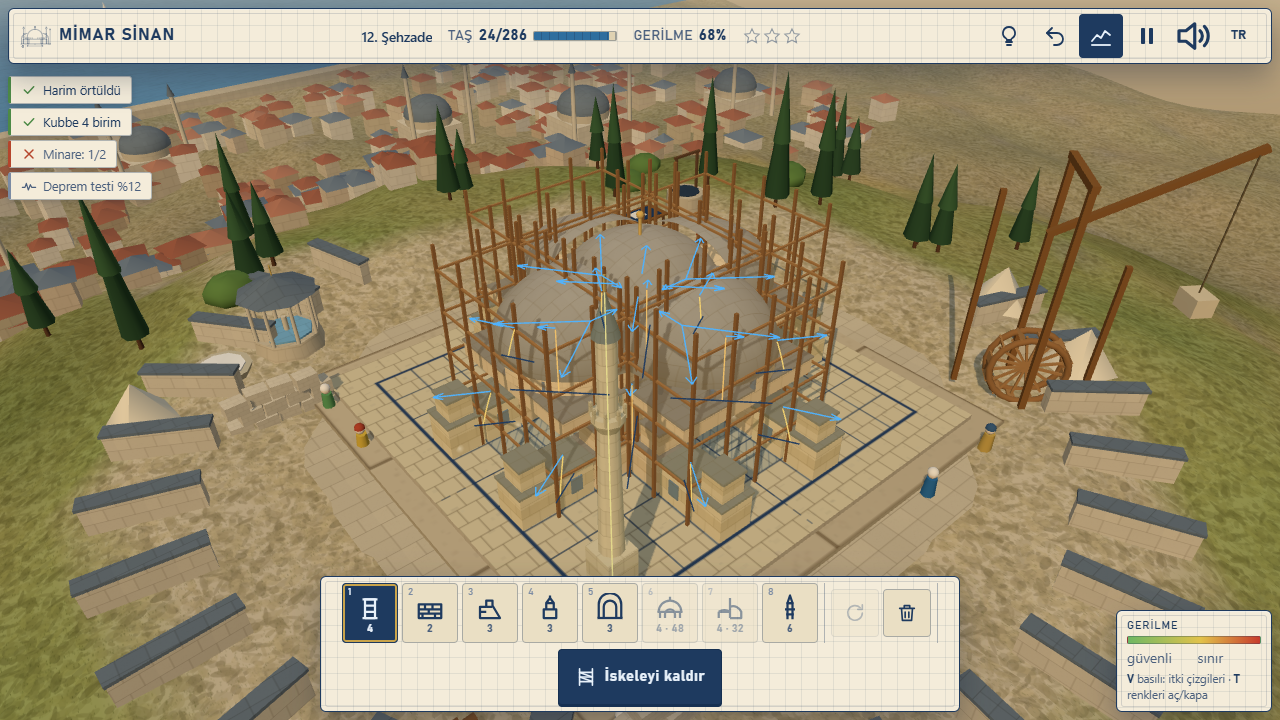
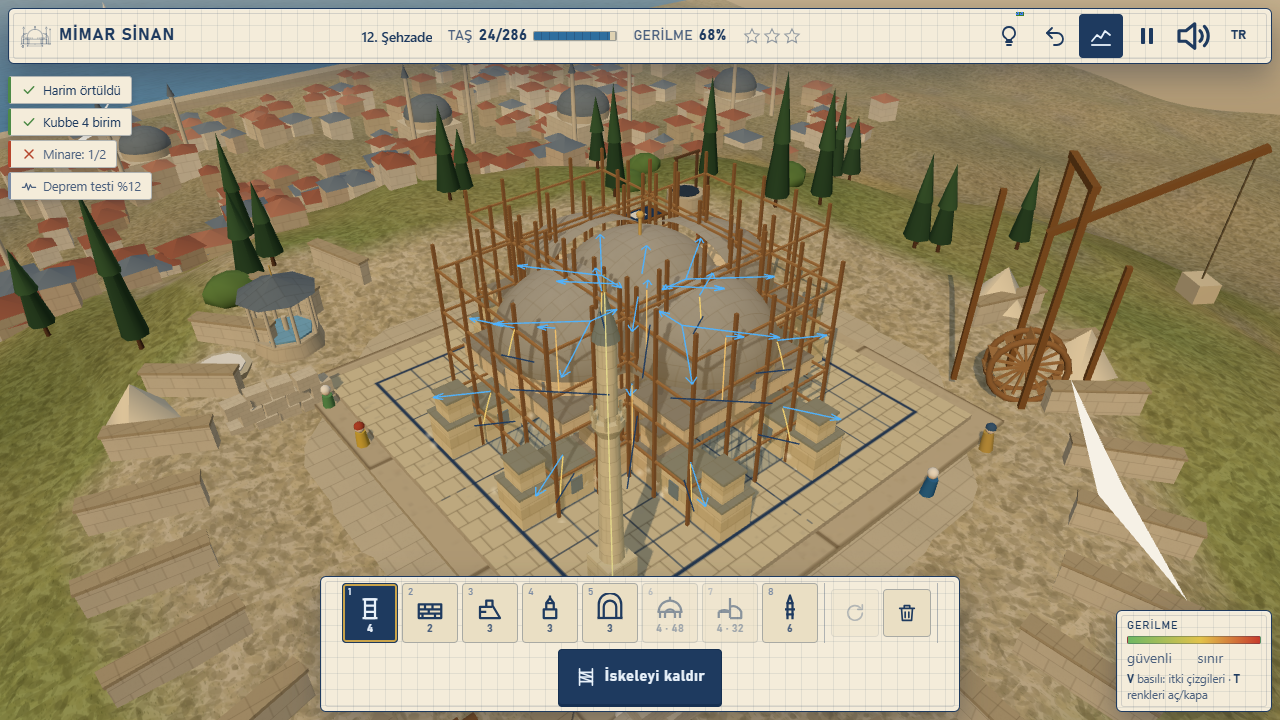
fix: compact landscape tool panel, toasts below objectives, warm forecourt wall
Claude-Session: https://claude.ai/code/session_014vMYwwQ3htV8WjCni8q7av

diff --git a/index.html b/index.html
@@ -74,14 +74,15 @@ i[data-icon] svg{width:100%;height:100%}
   .mbar{width:52px}
 }
 
-/* requirement chips under the bar */
-.reqs{position:fixed;left:8px;top:calc(76px + var(--sa-t));z-index:17;display:flex;flex-direction:column;gap:4px;max-width:46vw}
+/* requirement chips under the bar, toasts beside them (desktop: centred; phone portrait: below the chips) */
+.notes{position:fixed;left:8px;right:8px;top:calc(76px + var(--sa-t));z-index:25;pointer-events:none}
+.reqs{display:flex;flex-direction:column;gap:4px;max-width:46vw;width:max-content}
 .req{display:inline-flex;align-items:center;gap:6px;font-size:12.5px;padding:5px 10px;border-radius:3px;background:var(--paper);border:1px solid var(--line);
   border-left:3px solid var(--ink3);color:var(--ink2);width:max-content;max-width:100%;box-shadow:0 2px 6px rgba(20,32,52,.2)}
 .req i[data-icon]{width:16px;height:16px;flex:none}
 .req.ok{color:var(--ink);border-left-color:var(--green)} .req.ok i{color:var(--green)}
 .req.bad{border-left-color:var(--red)} .req.bad i{color:var(--red)}
-@media (max-width:760px){.reqs{top:calc(118px + var(--sa-t))}.req{font-size:11.5px;padding:4px 8px}}
+@media (max-width:760px){.notes{top:calc(118px + var(--sa-t))}.req{font-size:11.5px;padding:4px 8px}}
 
 /* stress legend: a small scale like a drawing's legend block */
 .legend{position:fixed;right:8px;bottom:calc(8px + var(--sa-b));z-index:17;padding:8px 10px;font-size:11.5px;color:var(--ink2);width:156px;pointer-events:none}
@@ -118,11 +119,28 @@ i[data-icon] svg{width:100%;height:100%}
 .test:disabled{opacity:.5;cursor:default}
 .test i[data-icon]{width:22px;height:22px}
 @media (max-width:760px){.tbtn{min-width:48px;height:54px}.tbtn i[data-icon]{width:26px;height:26px}.cbtn{width:44px;height:44px}.test{min-height:50px;padding:0 12px;font-size:14px}.test span{display:none}.tray{gap:4px;padding:5px 6px}}
+/* phone landscape: one compact row (pieces, rotate/erase, test), no legend, so the tray stays under a quarter of the height */
+@media (max-height:500px){
+  .legend{display:none}
+  .tray{flex-wrap:nowrap;gap:4px;padding:4px 6px;bottom:calc(4px + var(--sa-b));max-width:calc(100vw - 12px)}
+  .tray .grp{flex-wrap:nowrap;gap:3px}
+  .tbtn{min-width:42px;height:42px;padding:1px 3px}
+  .tbtn i[data-icon]{width:20px;height:20px}
+  .tbtn small{font-size:8.5px;top:1px;left:3px}
+  .tbtn em{font-size:9.5px}
+  .cbtn{width:38px;height:38px}
+  .cbtn i[data-icon]{width:18px;height:18px}
+  .test{min-height:42px;padding:0 10px;font-size:13px;gap:6px}
+  .test i[data-icon]{width:18px;height:18px}
+  .test span{display:none}
+}
+@media (max-height:500px) and (min-width:820px){.test span{display:inline}}
 
 /* toasts */
-.toasts{position:fixed;top:calc(76px + var(--sa-t));left:50%;transform:translateX(-50%);display:flex;flex-direction:column;gap:6px;
-  align-items:center;z-index:25;pointer-events:none;width:max-content;max-width:92vw}
-@media (max-width:760px){.toasts{top:calc(120px + var(--sa-t))}}
+.toasts{position:absolute;top:0;left:50%;transform:translateX(-50%);display:flex;flex-direction:column;gap:6px;
+  align-items:center;width:max-content;max-width:92vw}
+@media (max-width:760px){.toasts{position:static;transform:none;margin:8px auto 0;max-width:100%}}
+@media (max-height:500px){.toasts{position:absolute;left:auto;right:0;top:0;transform:none;margin:0;align-items:flex-end;max-width:50vw}}
 .toast{padding:8px 16px;border-radius:4px;font-weight:600;font-size:14.5px;animation:tin .25s ease-out;border-left:4px solid var(--accent);color:var(--ink)}
 .toast::before{display:none}
 .toast.good{border-left-color:var(--green)} .toast.bad{border-left-color:var(--red)}
@@ -250,7 +268,7 @@ input[type=range]{flex:1;accent-color:var(--bp);height:44px;margin:0}
     <button class="ibtn" id="bLang" data-tt="language">TR</button>
   </div>
 </div>
-<div id="reqs" class="reqs" hidden></div>
+<div class="notes"><div id="reqs" class="reqs" hidden></div><div id="toasts" class="toasts"></div></div>
 <div id="legend" class="legend glass" hidden>
   <div data-t="legendTitle"></div>
   <div class="bar"></div>
@@ -267,7 +285,6 @@ input[type=range]{flex:1;accent-color:var(--bp);height:44px;margin:0}
   <div class="sep"></div>
   <div class="grp"><button class="test" id="bTest"><i data-icon="scaffold"></i><span data-t="test"></span></button></div>
 </div>
-<div id="toasts" class="toasts"></div>
 
 <!-- Title -->
 <div id="title" class="overlay">
@@ -967,7 +984,7 @@ renderer.outputColorSpace = THREE.SRGBColorSpace;
 const scene = new THREE.Scene();
 const camera = new THREE.PerspectiveCamera(46, 1, 0.1, 600);
 // Art direction (redesign 2026-11): blueprint + warm limestone. Afternoon haze over the city and the sea.
-const LIME = 0xe3d5b8, LIME2 = 0xd4c4a4, LEAD = 0x6e7b85, LEAD2 = 0x9aa6b0, BLUE = 0x2f6e9e, GOLD = 0xd9b45a, INK = 0x1e3a5f;
+const LIME = 0xe3d5b8, LIME2 = 0xd4c4a4, LIME3 = 0xbfab85, LEAD = 0x6e7b85, LEAD2 = 0x9aa6b0, BLUE = 0x2f6e9e, GOLD = 0xd9b45a, INK = 0x1e3a5f;
 const SKY = { sunset: 0, day: { top: new THREE.Color(0x5b90c6), hor: new THREE.Color(0xeedfc4), fog: new THREE.Color(0xe6d6b9), sun: new THREE.Color(0xffe8c8), sunI: 2.0, hemi: 1.05 },
   dusk: { top: new THREE.Color(0x3d3a72), hor: new THREE.Color(0xf28a50), fog: new THREE.Color(0xd9916a), sun: new THREE.Color(0xff9d5c), sunI: 1.5, hemi: 0.7 } };
 scene.fog = new THREE.Fog(SKY.day.fog.clone(), 30, 190);
@@ -1101,9 +1118,9 @@ for (let k = 0; k < 26; k++) { const a = Math.PI + rng() * Math.PI * 1.1 - 0.05,
 for (let k = 0; k < 11; k++) { const x = -70 + k * 14 + rng() * 8, z = -75 - rng() * 60; box(0.6, 0.3, 1.8, x, -8.4, z, 0x6b4a2e, statics); const sg = new THREE.ConeGeometry(0.55, 1.8, 3); sg.translate(x, -7.4, z); statics.push(colorize(sg, 0xf6efe0)); }
 for (let k = 0; k < 10; k++) { const a = Math.PI * (0.15 + k * 0.08) + rng() * 0.1, r = 110 + rng() * 40; const x = Math.cos(a) * r, z = -Math.abs(Math.sin(a)) * r * 0.5 - 60; const hg = new THREE.ConeGeometry(14 + rng() * 10, 9 + rng() * 6, 7); hg.translate(x, -10, z); statics.push(colorize(hg, 0x9aaabd, 0.1)); }
 for (let k = 0; k < 8; k++) { const a = Math.PI * 1.1 + k * 0.1 + rng() * 0.05, r = 100 + rng() * 30; const x = Math.cos(a) * r, z = Math.sin(a) * r; const hg = new THREE.ConeGeometry(12 + rng() * 8, 7 + rng() * 5, 7); hg.translate(x, -8, z); statics.push(colorize(hg, 0x98a393, 0.1)); }
-// the forecourt wall with an arched gate, and the ablution fountain (şadırvan) by the gate
-for (let i = 0; i < 22; i++) { const a = 0.35 + i * (Math.PI * 1.3) / 21, r = PLATEAU + 0.6; if (i === 10 || i === 11) continue; const x = Math.cos(a) * r, z = Math.sin(a) * r, h = terrainH(x, z); box(2.4, 0.75, 0.32, x, h + 0.37, z, LIME, masonry, 0.06, -a); box(2.45, 0.08, 0.42, x, h + 0.77, z, LEAD, masonry, 0, -a); }
-{ const a = 0.35 + 10.5 * (Math.PI * 1.3) / 21, r = PLATEAU + 0.6, x = Math.cos(a) * r, z = Math.sin(a) * r, h = terrainH(x, z); for (const sd of [-1, 1]) box(0.5, 1.9, 0.5, x + Math.sin(a) * sd * 1.3, h + 0.95, z - Math.cos(a) * sd * 1.3, LIME2, masonry, 0.06, -a); box(3.2, 0.4, 0.5, x, h + 2.05, z, LIME, masonry, 0.06, -a); box(3.3, 0.08, 0.6, x, h + 2.3, z, LEAD, masonry, 0, -a); }
+// the forecourt wall with an arched gate, and the ablution fountain (şadırvan) by the gate; limestone with a darker limestone coping (lead reads as blue from above)
+for (let i = 0; i < 22; i++) { const a = 0.35 + i * (Math.PI * 1.3) / 21, r = PLATEAU + 0.6; if (i === 10 || i === 11) continue; const x = Math.cos(a) * r, z = Math.sin(a) * r, h = terrainH(x, z); box(2.4, 0.75, 0.32, x, h + 0.37, z, LIME, masonry, 0.06, -a); box(2.45, 0.08, 0.42, x, h + 0.77, z, LIME3, masonry, 0.03, -a); }
+{ const a = 0.35 + 10.5 * (Math.PI * 1.3) / 21, r = PLATEAU + 0.6, x = Math.cos(a) * r, z = Math.sin(a) * r, h = terrainH(x, z); for (const sd of [-1, 1]) box(0.5, 1.9, 0.5, x + Math.sin(a) * sd * 1.3, h + 0.95, z - Math.cos(a) * sd * 1.3, LIME2, masonry, 0.06, -a); box(3.2, 0.4, 0.5, x, h + 2.05, z, LIME, masonry, 0.06, -a); box(3.3, 0.08, 0.6, x, h + 2.3, z, LIME3, masonry, 0.03, -a); }
 { const fx = -6.0, fz = -8.4, h = terrainH(fx, fz); cyl(0.9, 1.0, 0.45, fx, h + 0.22, fz, LIME2, masonry, 8, 0.05); cyl(0.72, 0.72, 0.5, fx, h + 0.25, fz, 0x7fb8d6, masonry, 8); for (let i = 0; i < 8; i++) { const a = i * Math.PI / 4; cyl(0.05, 0.06, 1.3, fx + Math.cos(a) * 0.85, h + 1.1, fz + Math.sin(a) * 0.85, LIME, masonry, 6); } const cg = new THREE.ConeGeometry(1.1, 0.5, 8); cg.translate(fx, h + 2.0, fz); masonry.push(colorize(cg, LEAD, 0.06)); cyl(0.08, 0.08, 0.45, fx, h + 0.7, fz, LIME, masonry, 6); cyl(0.02, 0.02, 0.3, fx, h + 2.4, fz, GOLD, masonry, 5); }
 // the builders' yard: tents, a timber stack, a well, bushes, a lime pit, the architect's drafting table with a blueprint
 for (const [tx, tz, ry] of [[9.8, 6.8, 0.4], [11.2, 3.6, -0.3], [-10.2, -6.8, 0.9]]) { const h = terrainH(tx, tz); const tg = new THREE.ConeGeometry(1.0, 1.25, 4); tg.rotateY(ry); tg.translate(tx, h + 0.85, tz); statics.push(colorize(tg, 0xe9dbbb, 0.08)); cyl(0.05, 0.05, 1.3, tx, h + 0.65, tz, 0x6b4a2e, statics, 5); }
